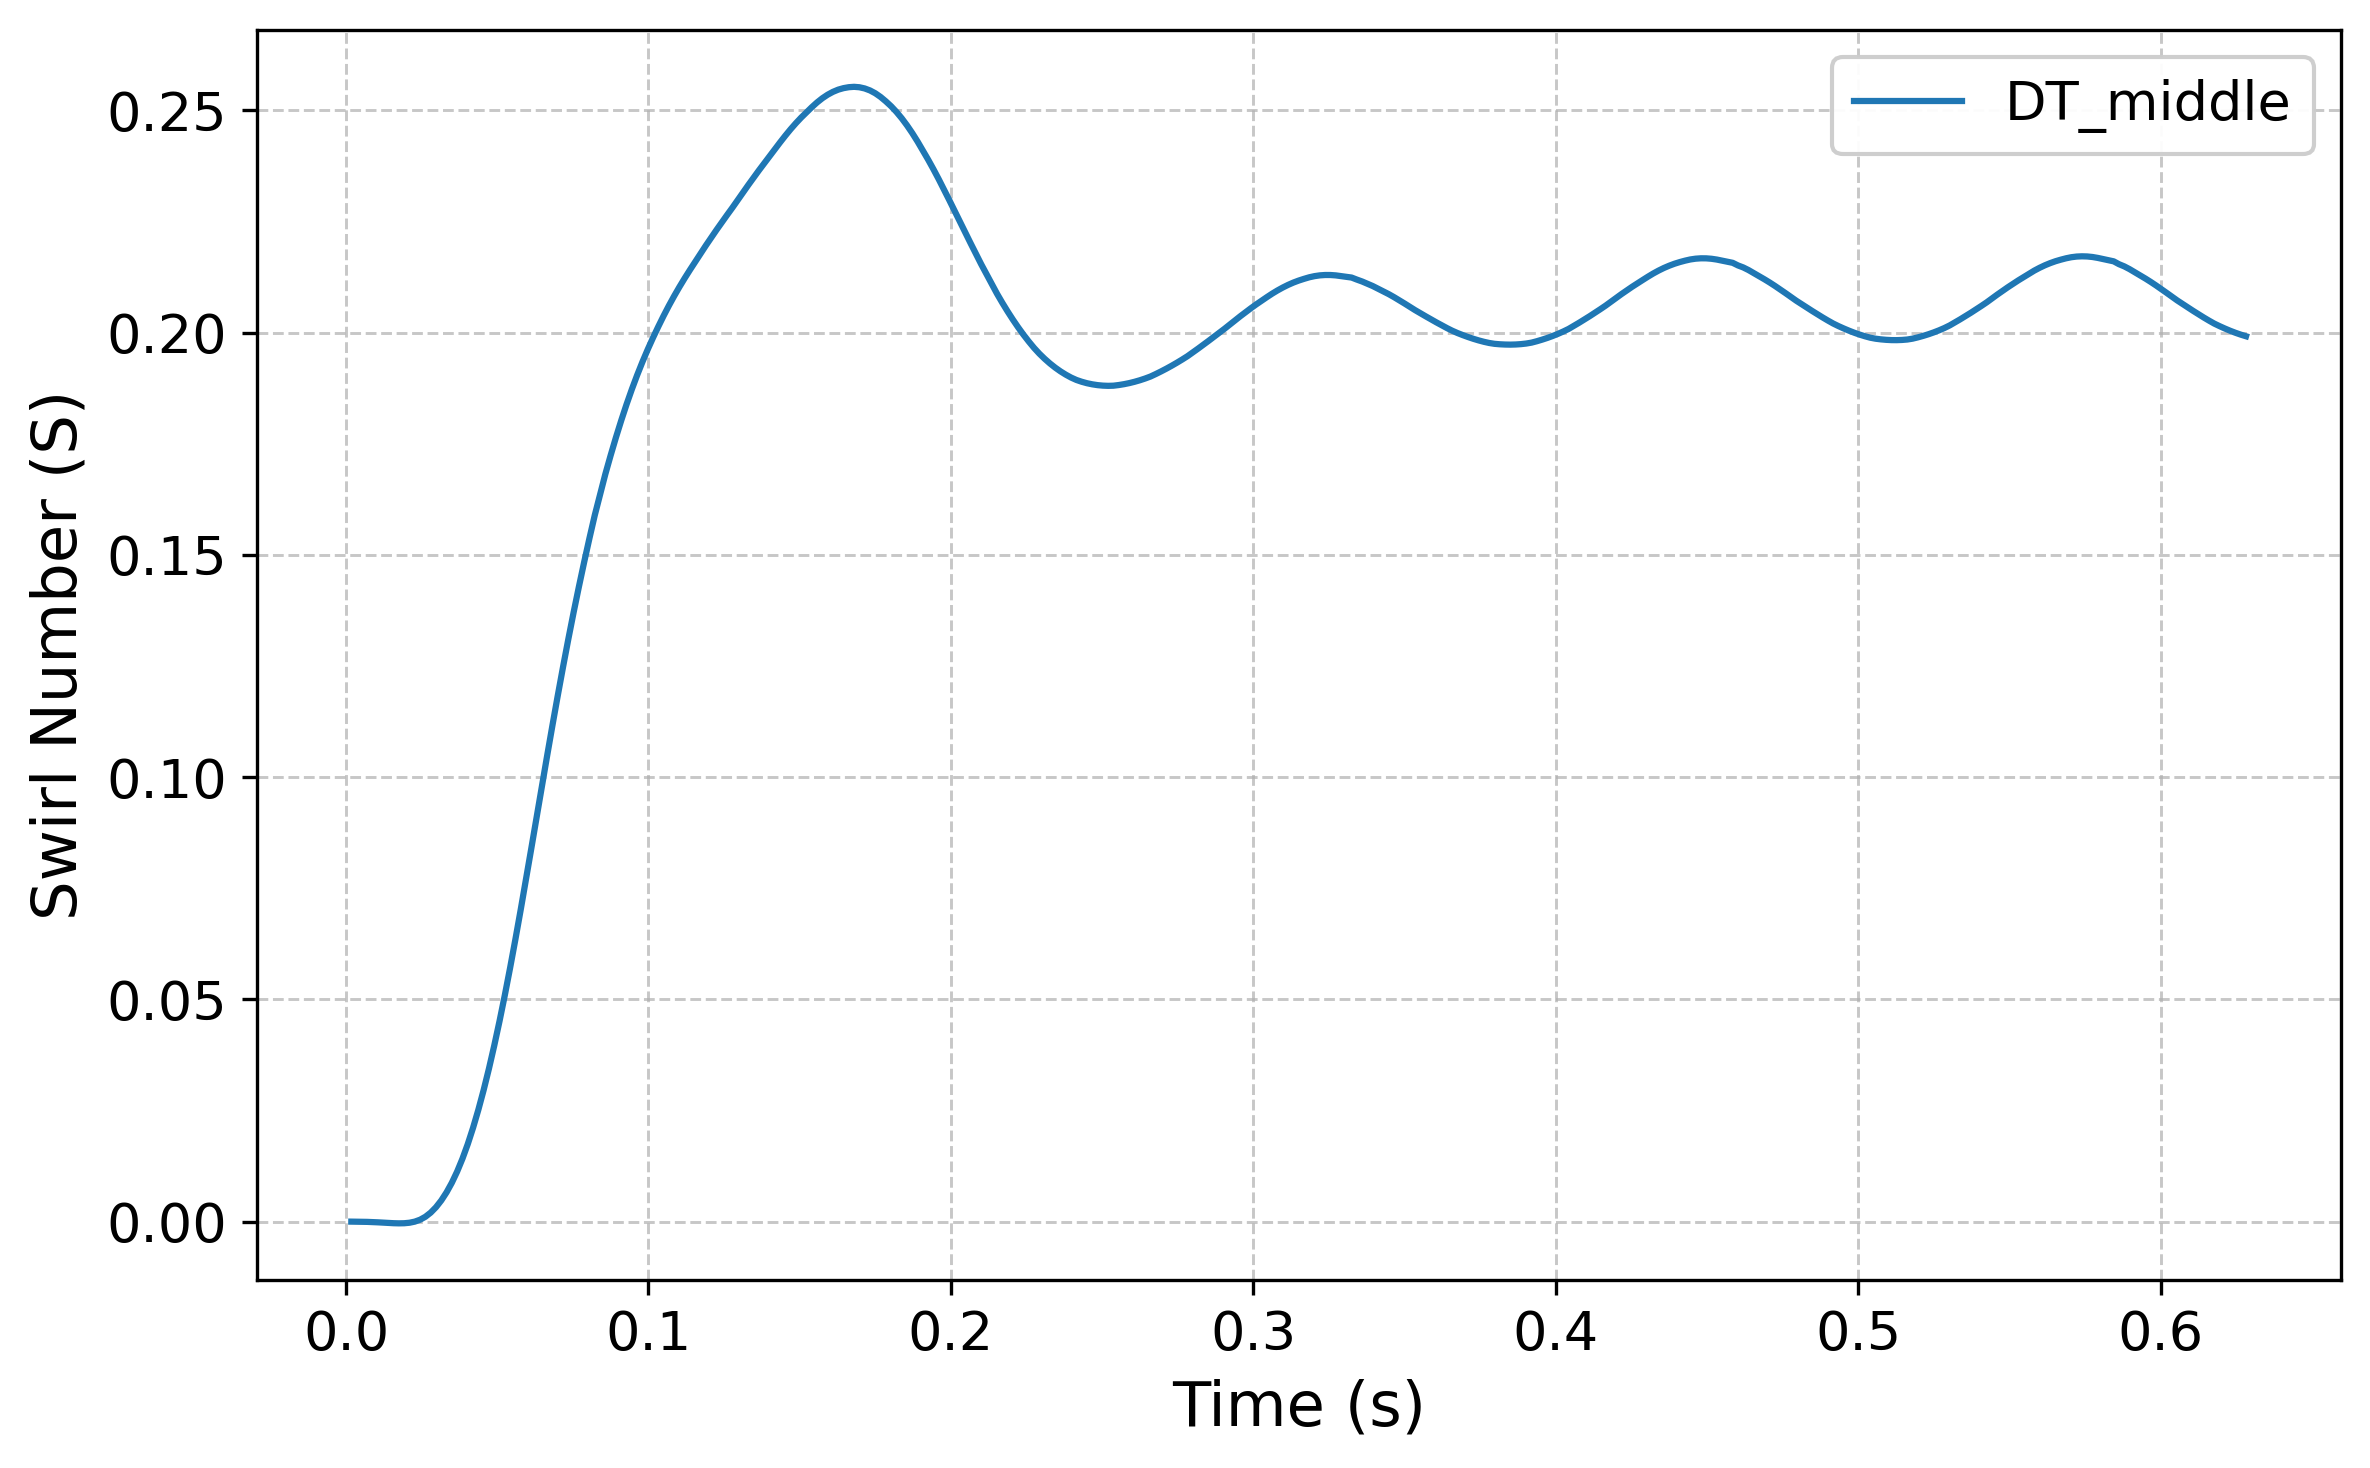
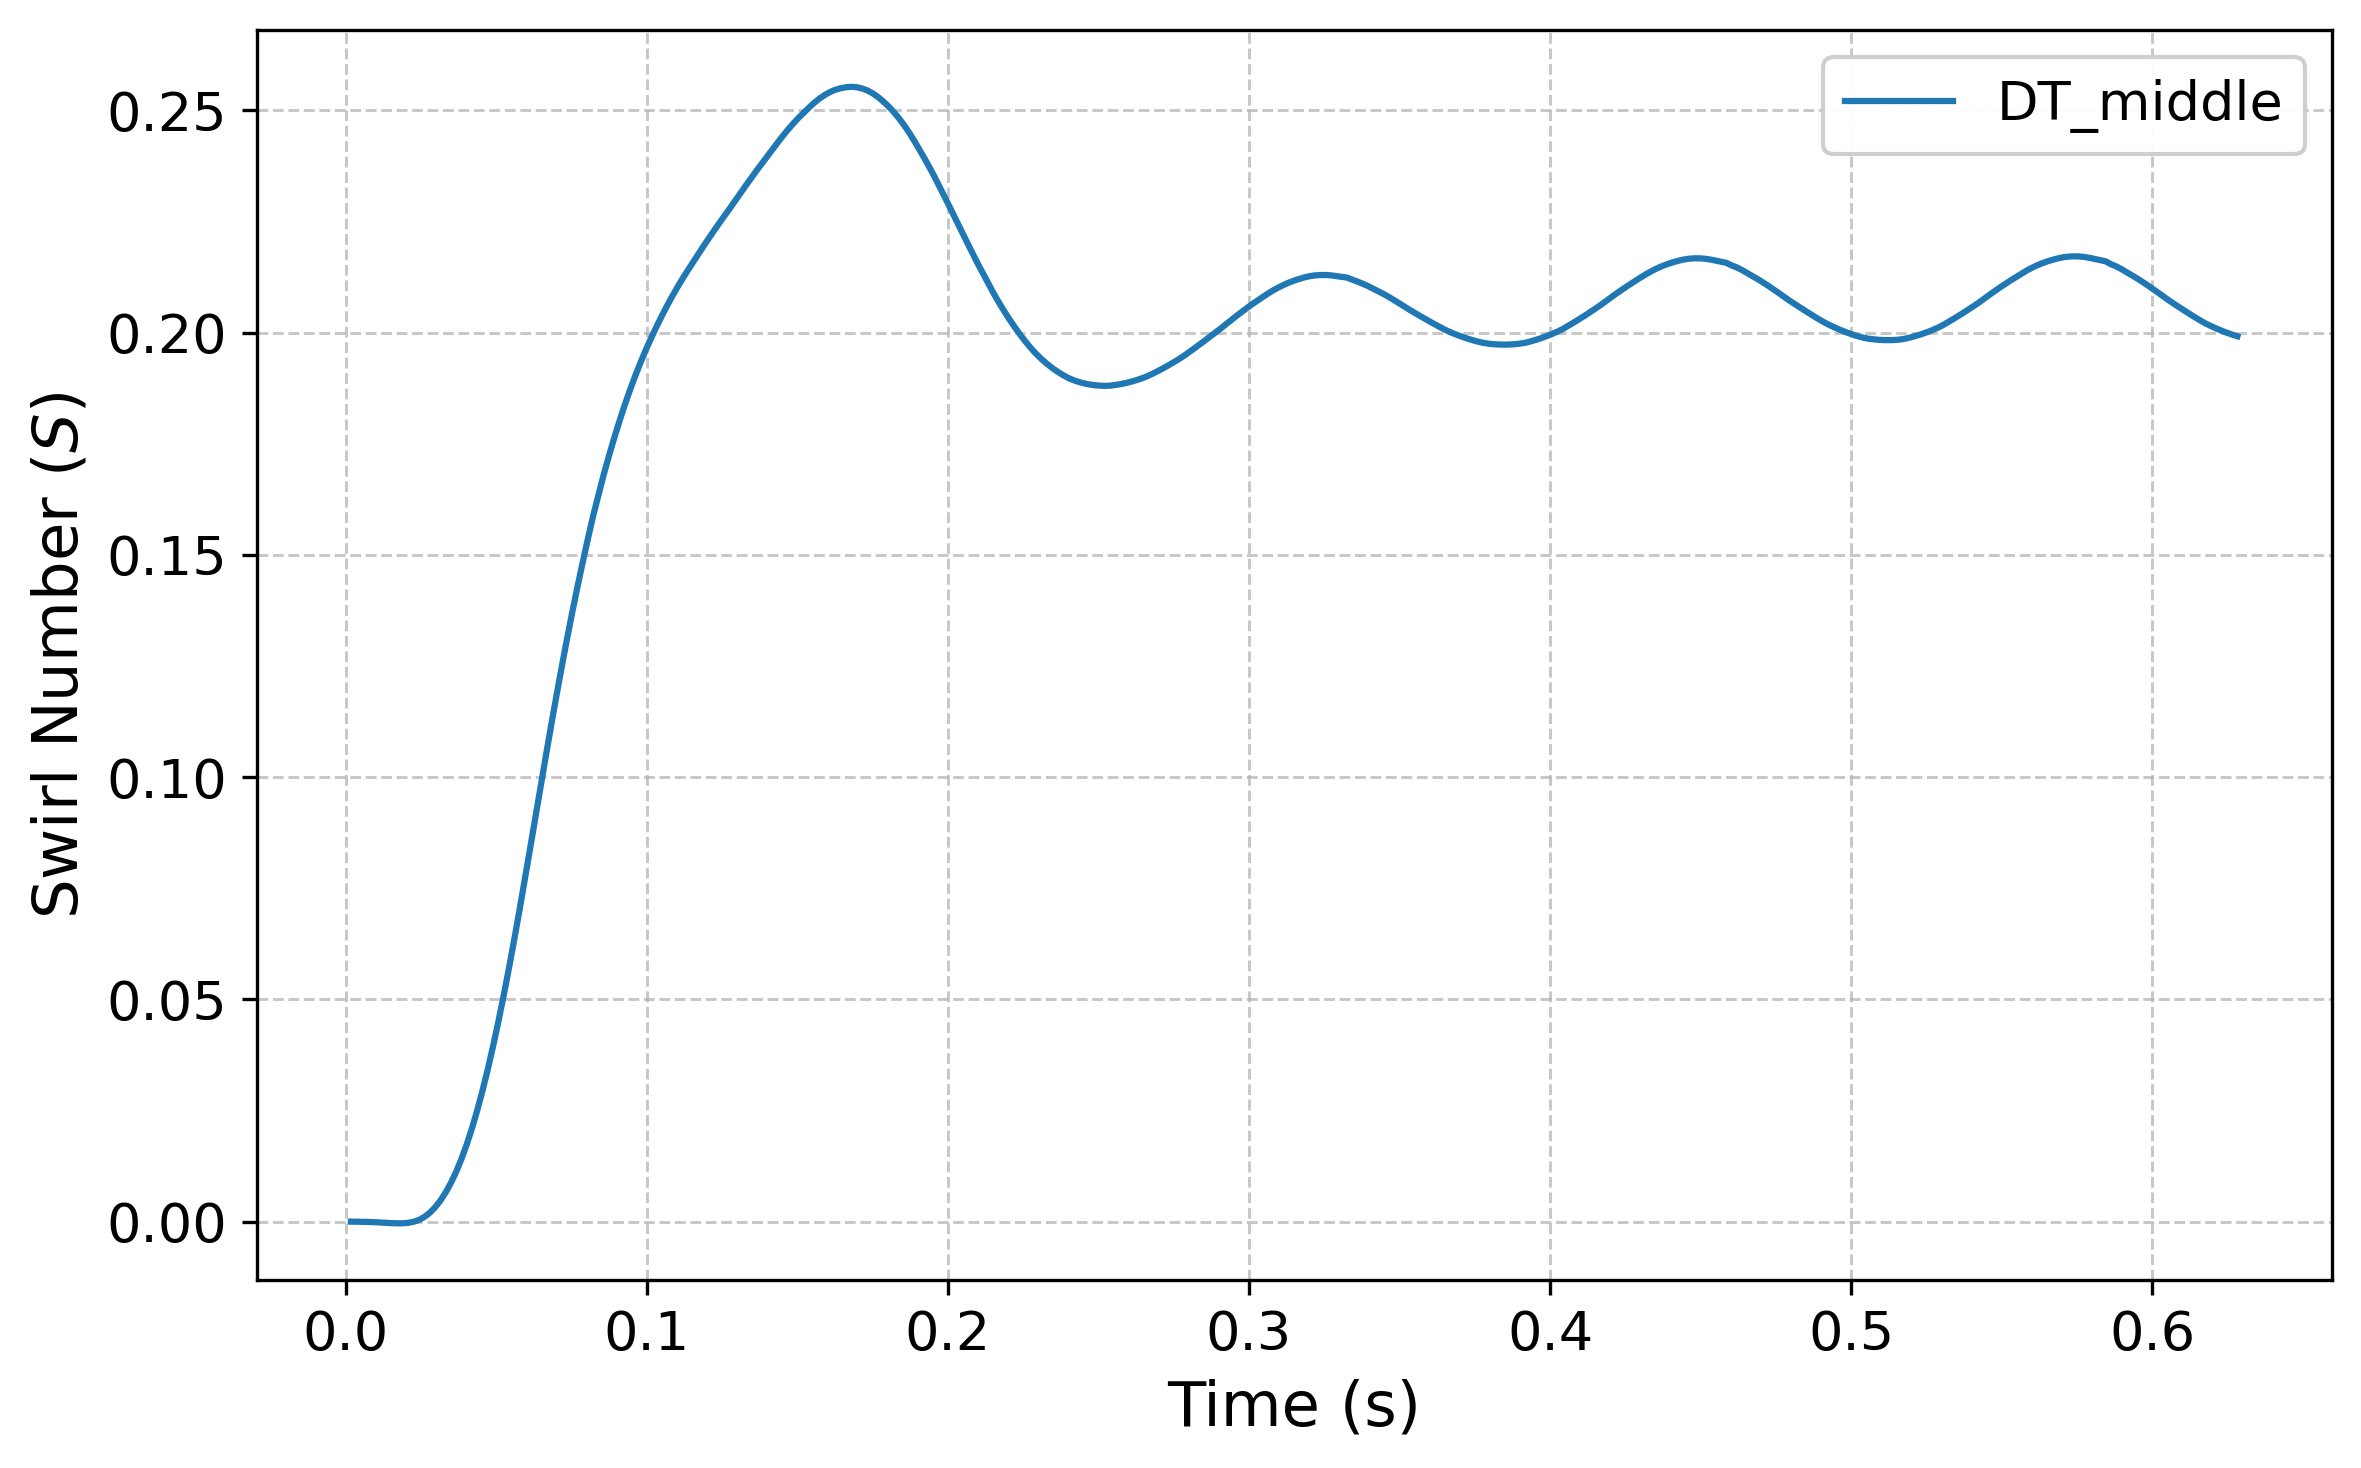
Updated README

diff --git a/PostProcessing.py b/PostProcessing.py
@@ -44,12 +44,11 @@ for region in regions:
 # plt.style.use("seaborn-v0_8-whitegrid")
 # plt.axi
 plt.xlabel("Time (s)", fontsize=15)
-plt.ylabel("Swirl Number (S)", fontsize=15)
+plt.ylabel("Swirl Number ($S$)", fontsize=15)
 plt.xticks(fontsize=13)
 plt.yticks(fontsize=13)
 plt.grid(True, which='both', linestyle='--', linewidth=0.7, alpha=0.7)
 plt.tight_layout()
 plt.legend(loc="best", fancybox=True, framealpha=0.95, fontsize=13)
-plt.show()
-
 fig.savefig(base_directory / "docs/figures/swirl_number_plot.png", dpi=300, bbox_inches='tight')
+plt.show()
